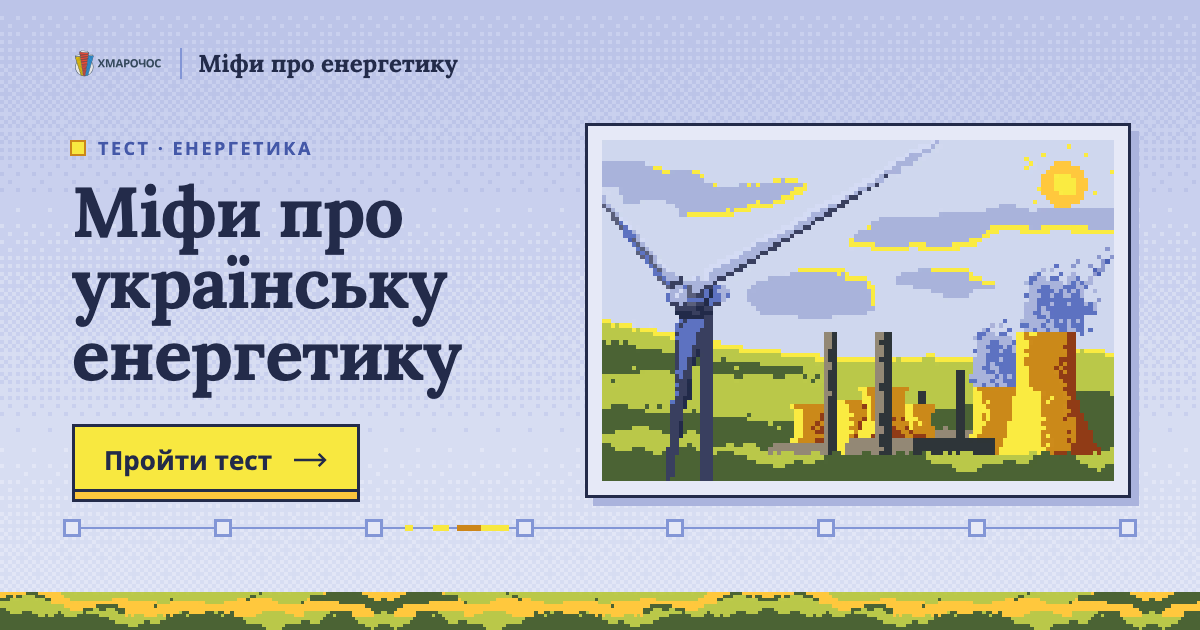
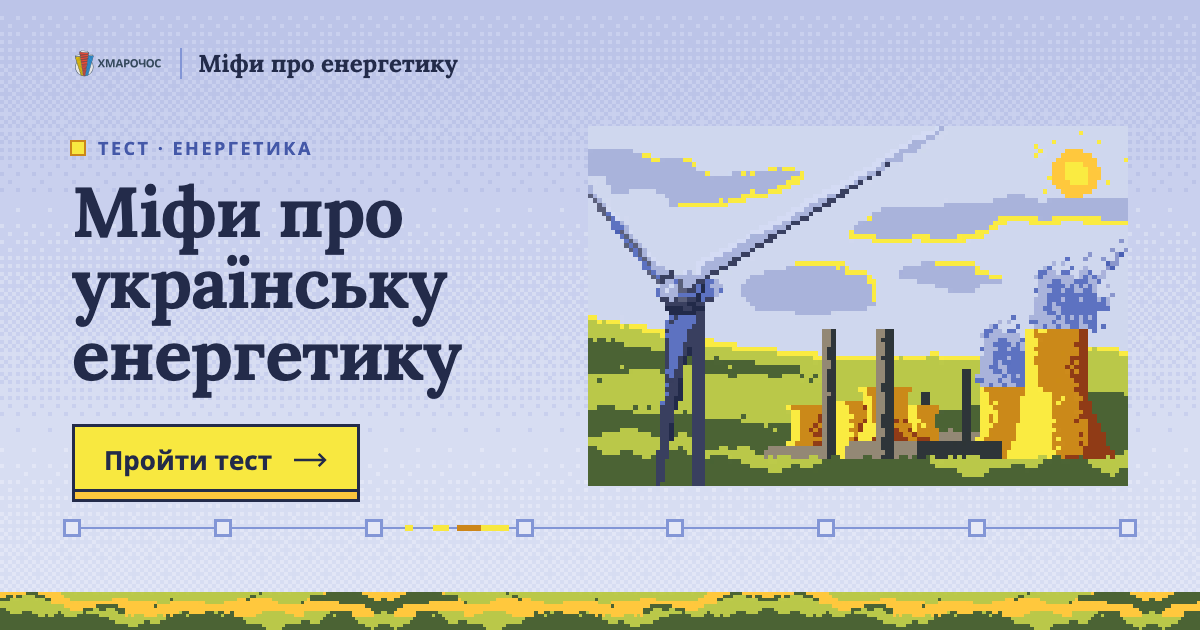
Мережа: оригінальні лампочка, свічка й батарейка ілюстраторки; ілюстрації без рамок; обкладинка в рідній сітці без швів; OG_VERSION 6

Changed region(s): [[0.4625, 0.181, 0.9558, 0.8143]]

diff --git a/app/skins/grid/grid.css b/app/skins/grid/grid.css
@@ -246,31 +246,11 @@
   }
 }
 
-/* ——— арт-експонат ——— */
+/* ——— ілюстрація ——— */
 
-/* рама з піксельними кутами: лінія 2 px, кути зрізані сходинкою 4 px, тінь 4 px */
+/* без рамки й тла: просто піксельна картинка ілюстраторки */
 .nm .plate {
-  --st: polygon(0 4px, 4px 4px, 4px 0, calc(100% - 4px) 0, calc(100% - 4px) 4px, 100% 4px, 100% calc(100% - 4px), calc(100% - 4px) calc(100% - 4px), calc(100% - 4px) 100%, 4px 100%, 4px calc(100% - 4px), 0 calc(100% - 4px));
-  position: relative;
   margin: 0;
-  padding: 10px;
-  background: var(--text);
-  clip-path: var(--st);
-  filter: drop-shadow(4px 4px 0 var(--cloud));
-}
-
-.nm .plate::after {
-  content: "";
-  position: absolute;
-  inset: 2px;
-  background: var(--bg-2);
-  clip-path: var(--st);
-  z-index: 0;
-}
-
-.nm .plate img {
-  position: relative;
-  z-index: 1;
 }
 
 .nm .plate img {
@@ -279,42 +259,6 @@
   height: auto;
   image-rendering: pixelated;
 }
-
-/* лампочка, свічка, батарейка — окремо, посеред темряви з ореолом */
-.nm .plate.solo {
-  display: grid;
-  place-items: center;
-  aspect-ratio: 3 / 2;
-  padding: 24px;
-}
-
-/* лампочка, свічка, батарейка — у «нічному віконці» кольору найтемнішого синього з малюнка */
-.nm .plate.solo::after {
-  background:
-    linear-gradient(rgba(170, 179, 221, 0.06) 1px, transparent 1px) 0 0 / 8px 8px,
-    linear-gradient(90deg, rgba(170, 179, 221, 0.06) 1px, transparent 1px) 0 0 / 8px 8px,
-    radial-gradient(closest-side, #3a4478, var(--night));
-}
-
-.nm .plate.solo img {
-  width: auto;
-  height: 72%;
-}
-
-.nm .plate.solo.lv-analyst img {
-  width: 86%;
-  height: auto;
-}
-
-.nm .plate.amber img {
-  filter: drop-shadow(0 0 22px rgba(248, 232, 64, 0.45));
-}
-
-.nm .plate.warm img {
-  filter: drop-shadow(0 0 26px rgba(252, 160, 61, 0.5));
-}
-
-
 
 /* ——— кнопки ——— */
 
@@ -635,7 +579,6 @@
 .nm .verArt {
   width: 56px;
   height: auto;
-  image-rendering: pixelated;
 }
 
 .nm .ver.ok .verArt {
@@ -911,7 +854,6 @@ html:has(.nm) {
 .nm .free img {
   display: block;
   height: auto;
-  image-rendering: pixelated;
   filter: drop-shadow(0 0 14px rgba(248, 232, 64, 0.85));
 }
 

diff --git a/og-src/og.html b/og-src/og.html
@@ -30,7 +30,7 @@ body.night .ground { background-image: url("../public/art/px/hills-night.png"); 
 .start .text { position: absolute; left: 72px; top: 136px; width: 500px; }
 .start h1 { margin: 16px 0 0; font: 700 70px/1.02 "Lora", serif; letter-spacing: -.015em; }
 .cta { display: inline-flex; align-items: center; gap: 22px; margin-top: 34px; height: 78px; padding: 0 32px 6px; background: var(--amber); color: var(--text); font-weight: 700; font-size: 26px; box-shadow: inset 0 0 0 3px var(--text), inset 0 -10px 0 0 var(--amber-2), inset 0 -10px 0 3px var(--text); }
-.plate { position: absolute; padding: 14px; background: var(--bg-2); box-shadow: 0 0 0 3px var(--text), 8px 8px 0 3px var(--cloud); }
+.plate { position: absolute; }
 .start .plate { right: 72px; top: 126px; width: 540px; }
 .start .plate img { width: 100%; }
 
@@ -53,7 +53,7 @@ body.level .lvl { display: block; }
 .lvl .plate { right: 80px; top: 112px; width: 390px; height: 350px; display: grid; place-items: center; background: none; box-shadow: none; }
 
 
-.lvl .plate img { position: relative; filter: drop-shadow(0 0 22px rgba(248,232,64,.9)); }
+.lvl .plate img { position: relative; image-rendering: auto; filter: drop-shadow(0 0 22px rgba(248,232,64,.9)); }
 .lvl .plate.warm img { filter: drop-shadow(0 0 22px rgba(252,150,50,.8)); }
 </style>
 </head>
@@ -97,7 +97,7 @@ body.level .lvl { display: block; }
     document.getElementById("title").textContent = l.title;
     document.getElementById("range").textContent = l.range;
     const a = document.getElementById("art");
-    a.src = `../public/art/px/${l.art}.png`;
+    a.src = `../public/art/${l.art}.webp`;
     a.style.width = l.w + "px";
     if (l.warm) { document.getElementById("plate").classList.add("warm"); document.body.classList.add("night"); }
   }

diff --git a/app/skins/grid/GridSkin.tsx b/app/skins/grid/GridSkin.tsx
@@ -40,11 +40,13 @@ const UI = {
   home: "На початок",
 };
 
+// обкладинка — у рідній сітці 120×80 (збігається з малюнком піксель у піксель);
+// лампочка, свічка й батарейка — оригінальні файли ілюстраторки без перетворень
 const ART = {
   cover: "/art/px/cover.png",
-  bulb: "/art/px/bulb-lamp.png",
-  candle: "/art/px/candle.png",
-  battery: "/art/px/battery.png",
+  bulb: "/art/bulb-lamp.webp",
+  candle: "/art/candle.webp",
+  battery: "/art/battery.webp",
 };
 const LEVEL_ART: Record<Level["slug"], string> = { hostage: ART.candle, observer: ART.bulb, analyst: ART.battery };
 
@@ -92,10 +94,10 @@ function Grid({ history, now, label }: { history: boolean[]; now?: number; label
   );
 }
 
-/** Арт як експонат: тонка рамка, рідна сітка 120×80 без розмиття. */
-function Plate({ src, alt = "", glow, className = "" }: { src: string; alt?: string; glow?: "warm" | "amber"; className?: string }) {
+/** Ілюстрація без рамки, у рідній сітці 120×80 без розмиття. */
+function Plate({ src, alt = "", className = "" }: { src: string; alt?: string; className?: string }) {
   return (
-    <figure className={`plate ${glow ?? ""} ${className}`}>
+    <figure className={`plate ${className}`}>
       {/* eslint-disable-next-line @next/next/no-img-element */}
       <img src={asset(src)} alt={alt} decoding="async" />
     </figure>

diff --git a/app/share.ts b/app/share.ts
@@ -14,4 +14,4 @@ export function resultShareUrl(slug: string): string {
 }
 
 /** Версія OG-картинок: міняємо, коли картинки перемальовано, щоб соцмережі взяли нові. */
-export const OG_VERSION = "5";
+export const OG_VERSION = "6";
